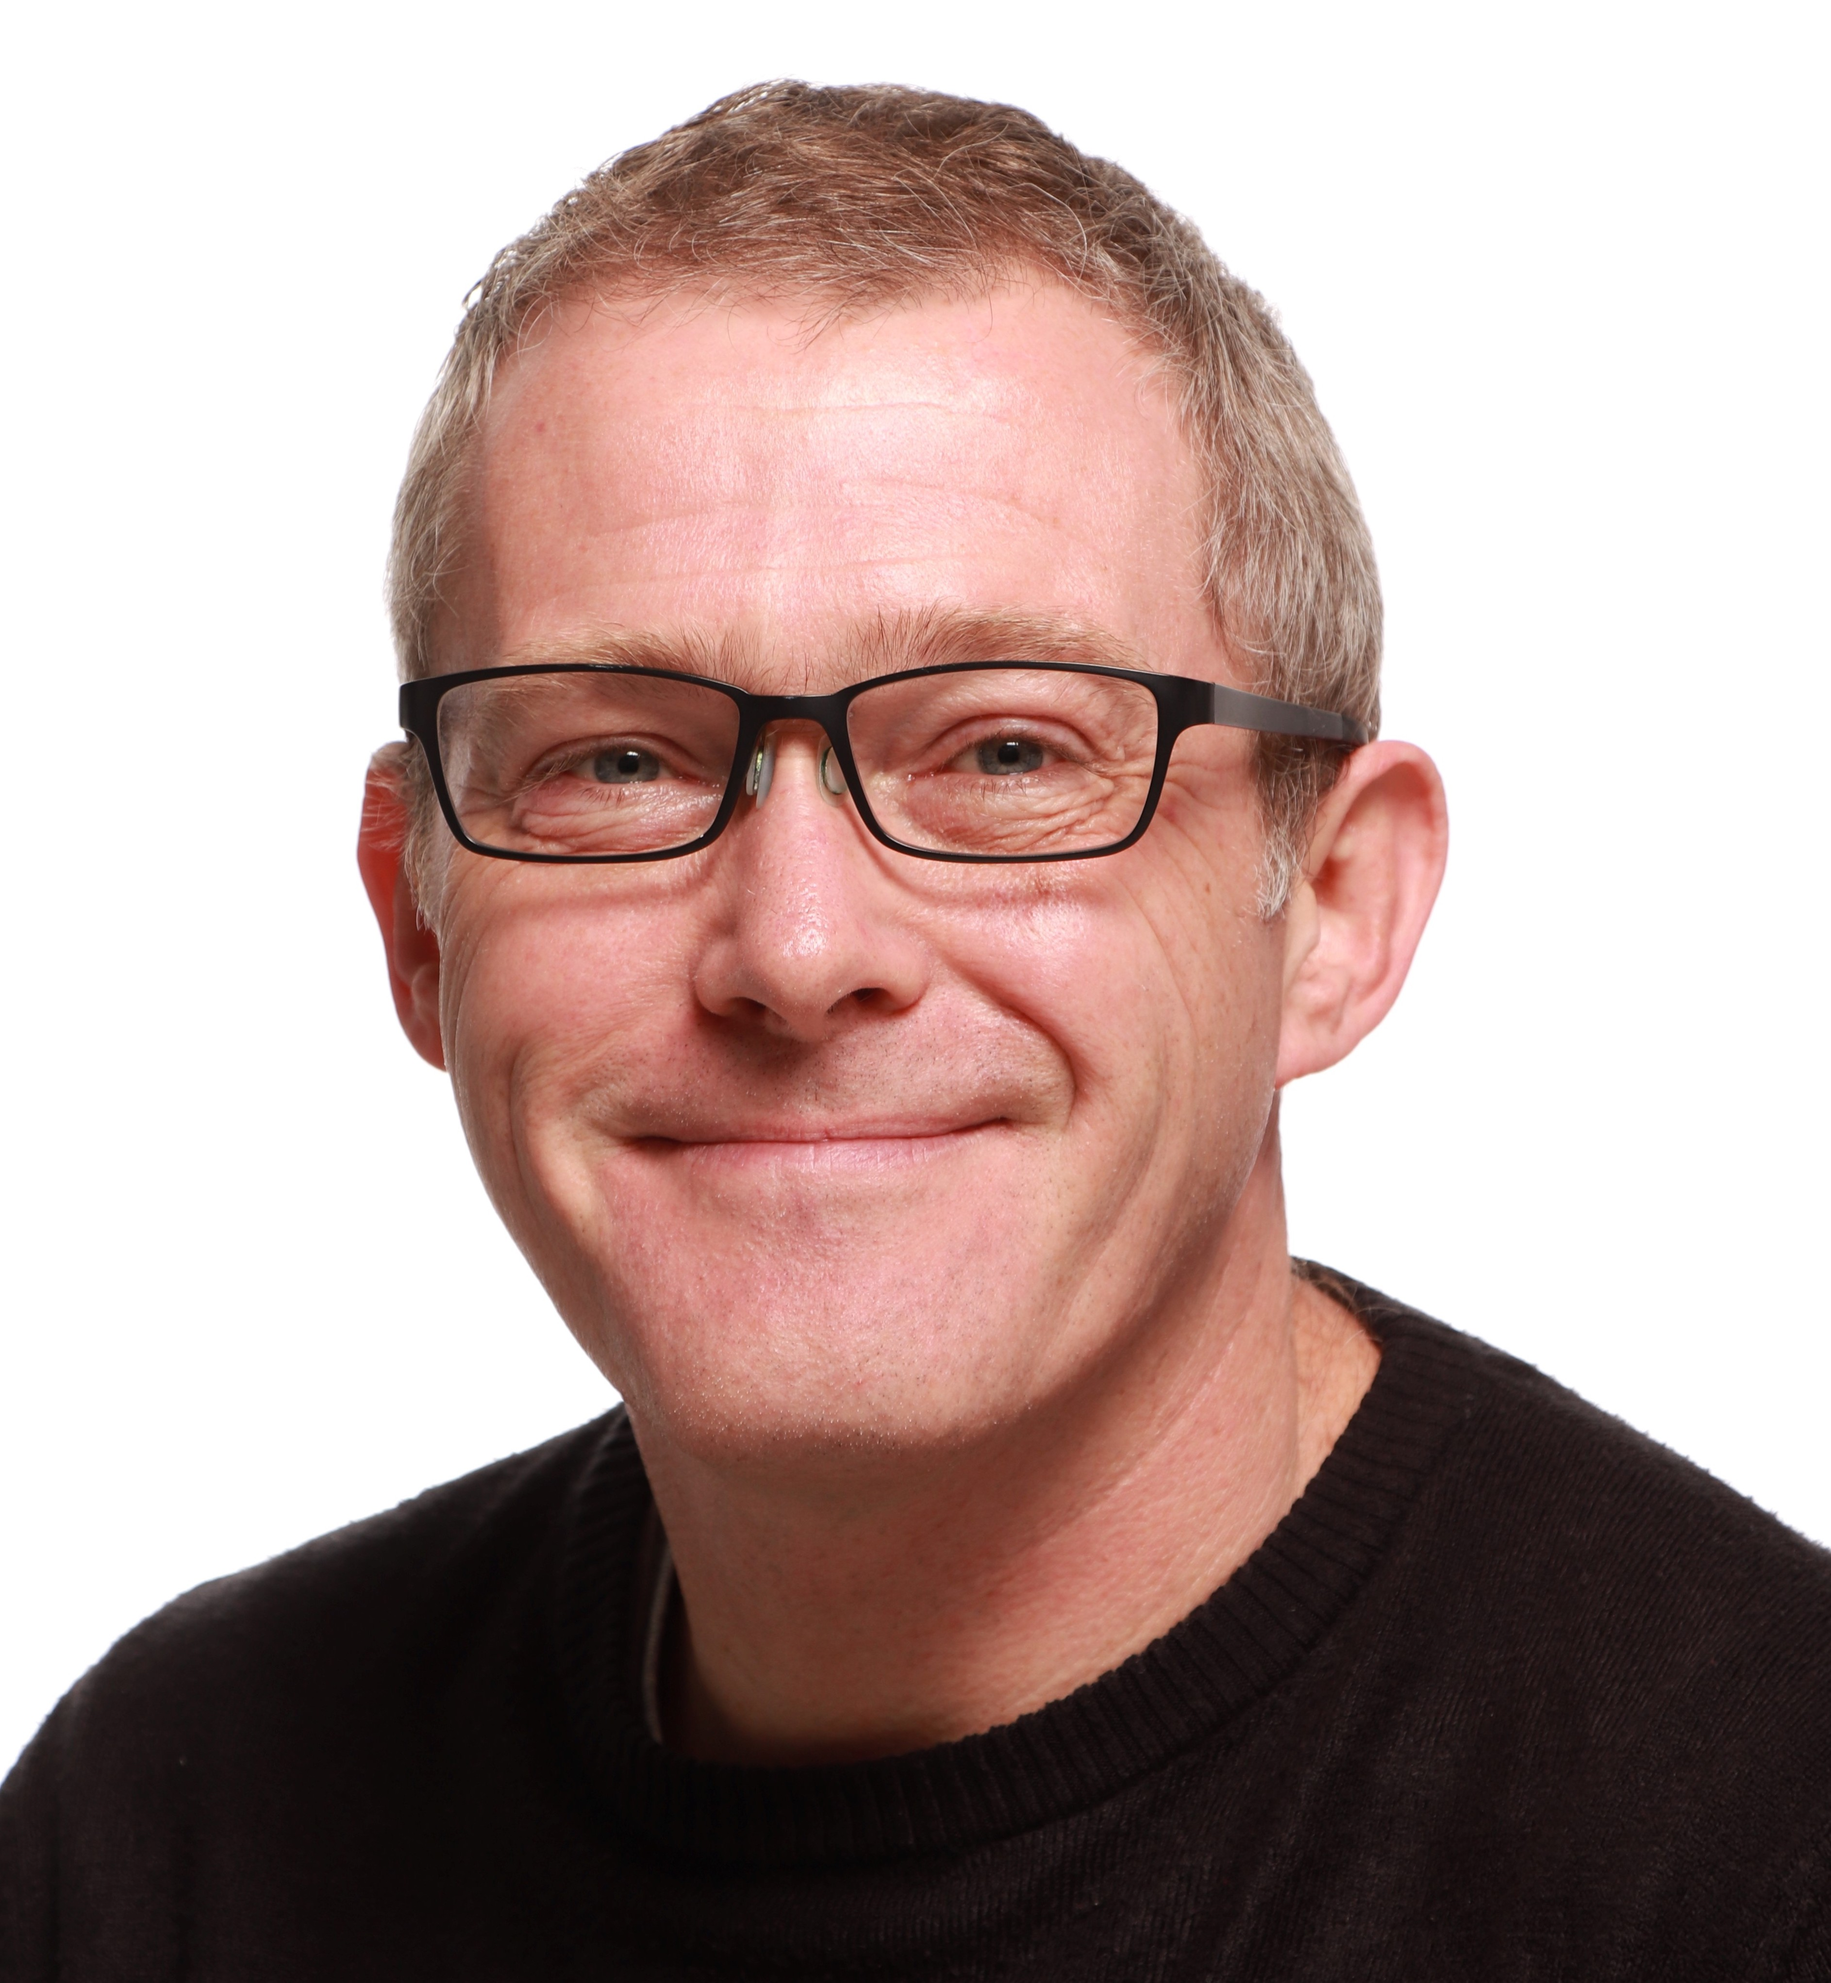
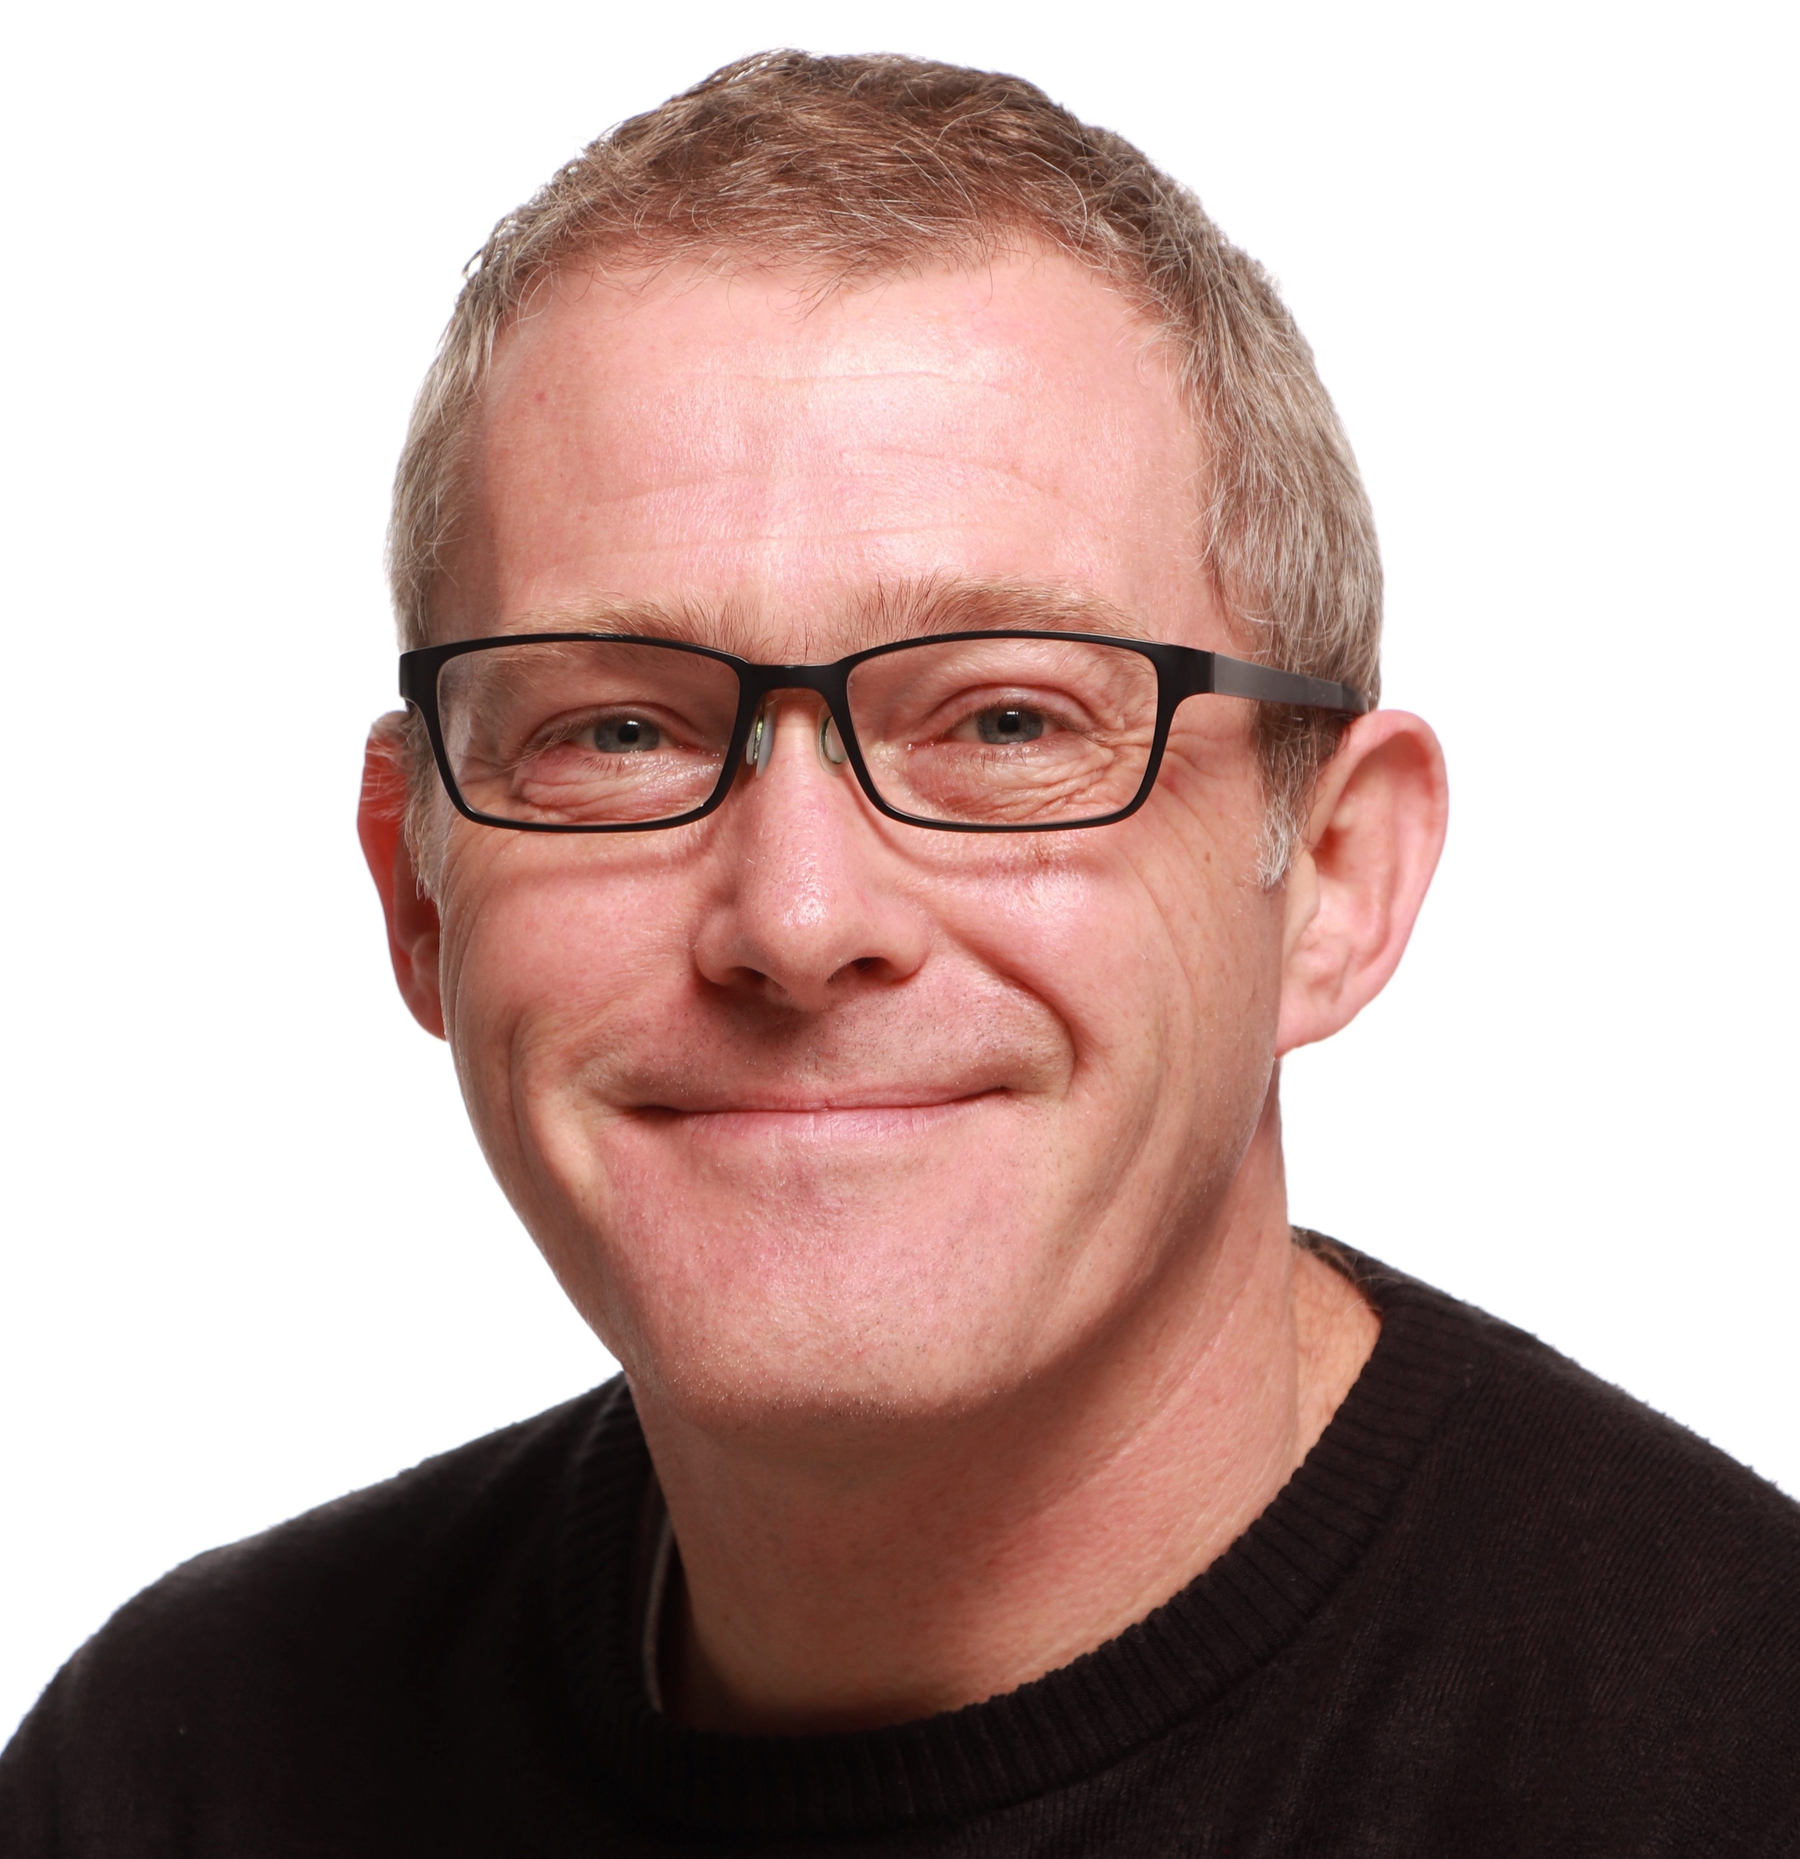
add photo (anas)

Changed region(s): [[0.0, 0.0, 1.0, 0.9629]]

diff --git a/index.html b/index.html
@@ -66,7 +66,7 @@
                     </div>
                     <div class="col-lg-4">
                         <div class="team-member">
-                            <img class="mx-auto rounded-circle" src="assets/img/team/2.jpg" alt="..." />
+                            <img class="mx-auto rounded-circle" src="assets/img/team/5.jpg" alt="..." />
                             <h4>Anastasiia Matiukhina</h4>
                             <p class="text-muted">Presenter (Long Oral)</p>
                         </div>
